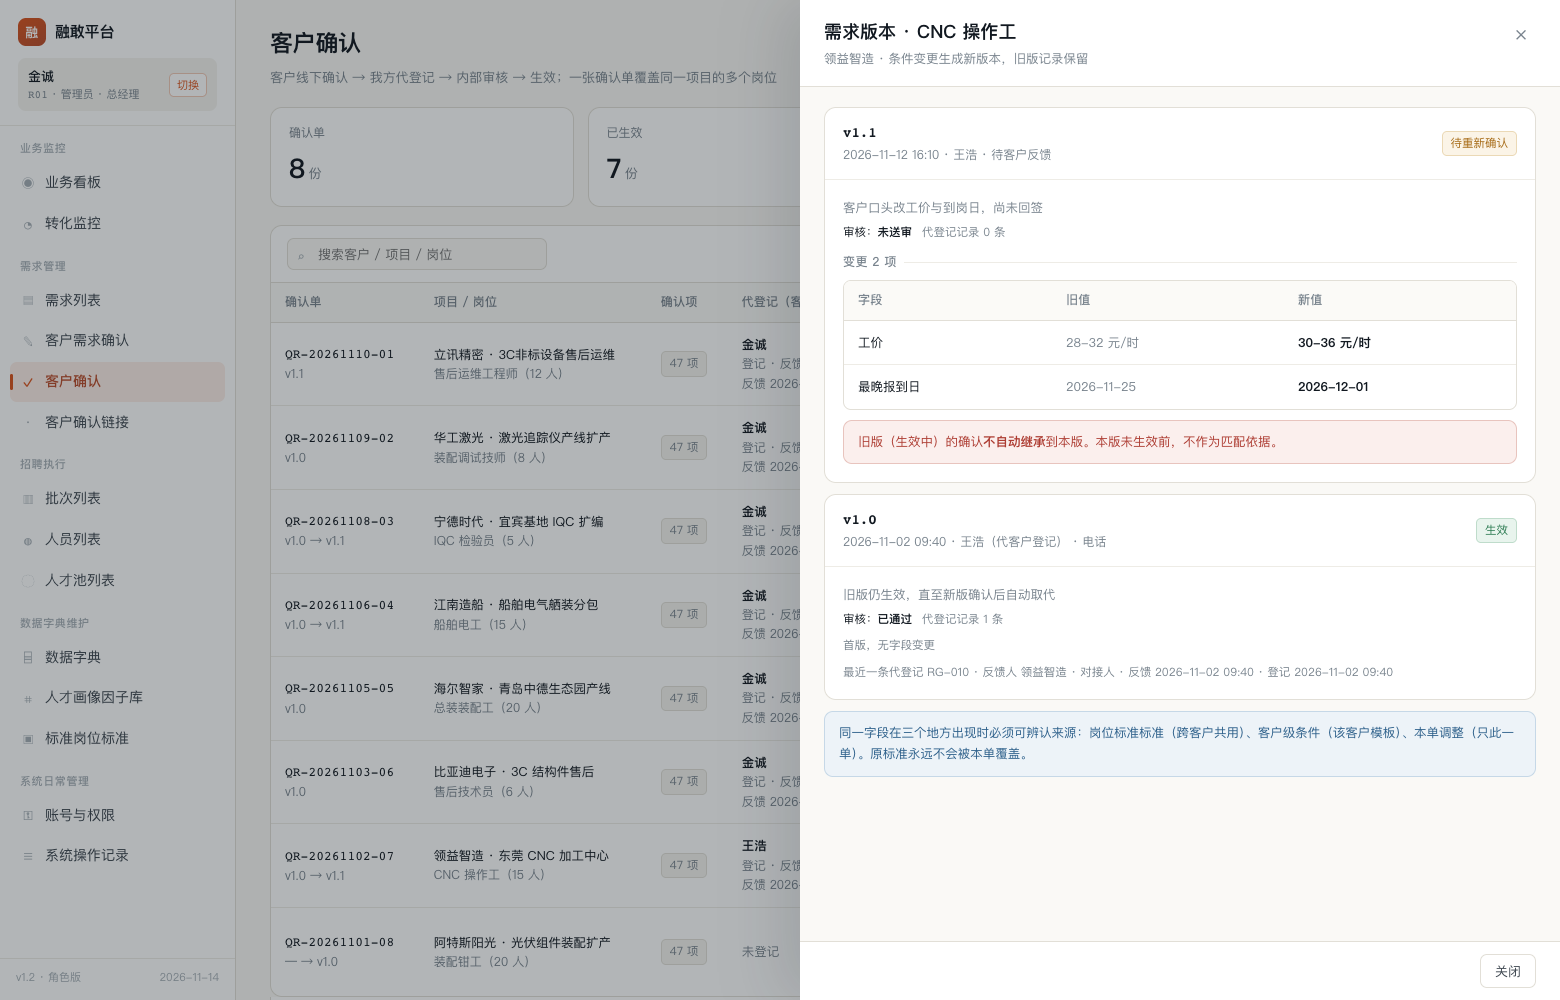
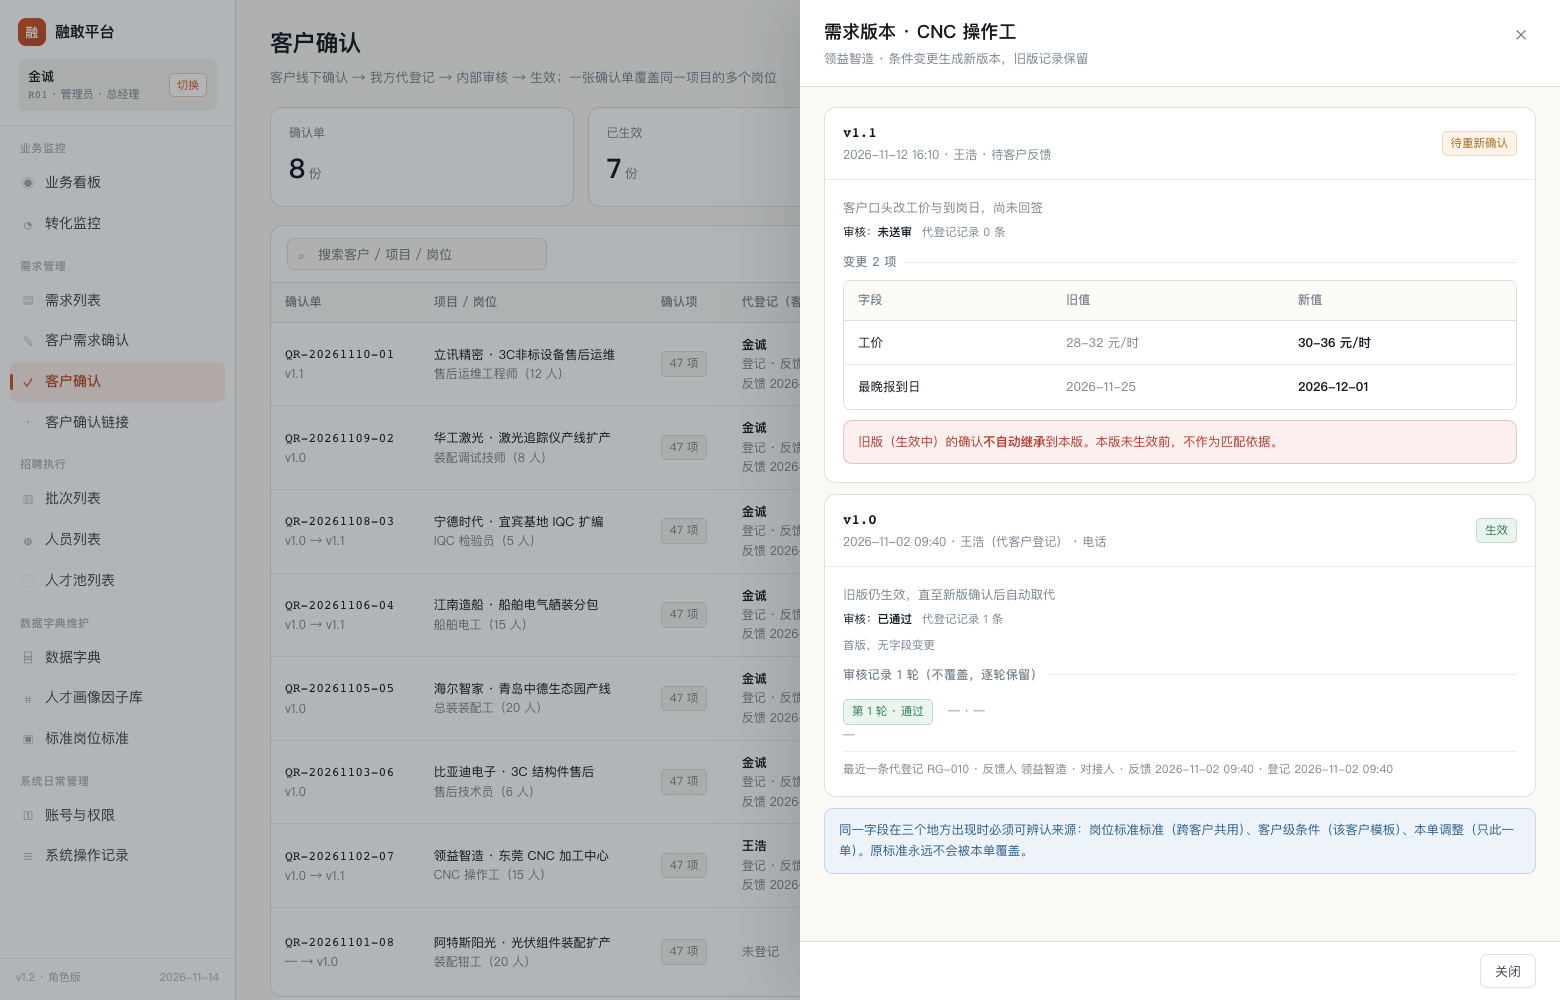
test(v1.2): 补两张截图（新建需求只读页条件、逐轮审核记录），自测文档同步 95 条

Changed region(s): [[0.5231, 0.651, 0.9538, 0.775], [0.5231, 0.806, 0.9846, 0.868]]

diff --git a/.shot-v12.js b/.shot-v12.js
@@ -136,6 +136,68 @@ const OUT = '/Users/yangxin/WorkBuddy/2026-11-10-18-54-53/月贝招聘平台-需
   await page.waitForTimeout(400);
   await shot('19-reg-resubmit');
 
+
+  // 新建需求 → 只读链接：条件来自向导，不是「无要求」
+  await page.evaluate(() => {
+    enter('R01');
+    ndEnter('SJ-DG-D3-L');
+    const st = ndState();
+    Object.assign(st, {client:'青岛思锐智能', project:'ALD 设备总装 2026Q4', people:'6', price:'38 元/时',
+      city:'青岛', deadline:'2026-12-20', term:'3 个月'});
+    ndPaint();
+    st.draft[25] = ['配盘接线','通电测试','报警排查'];
+    st.draft[26] = ['低压电工证'];
+    st.draft[19] = '两班倒';
+    st.draft[10] = '18-40';
+    ndCreate();
+    const id = DEMANDS[0].id;
+    window.__SHOTND__ = id;
+    const tok = (CLINKS.find(l=>l.demandId===id)||{}).tok;
+    openCustLinkDemo(tok);
+  });
+  await page.waitForTimeout(600);
+  await shot('20-newdemand-custlink');
+
+  // 两轮退回 → 版本历史逐轮保留意见
+  await page.evaluate(() => { exitCustLink(); enter('R01'); });
+  await page.waitForTimeout(200);
+  await page.evaluate(() => {
+    const id = window.__SHOTND__;
+    regDrawer(id);
+    const set = (k,v)=>{ const el=document.getElementById(k); if(el) el.value=v; };
+    set('rg_fbPerson','李主管（思锐·生产部）'); set('rg_fbChannel','微信');
+    set('rg_fbAt','2026-11-13 10:05');
+    set('rg_fbContent','「技能按清单来，电工证必须有；班制两班倒。」');
+    set('rg_fbAttach','微信截图 2 张（arch/2026-11-13-SR-01.png）');
+    set('rg_regBy','金诚'); set('rg_regAt','2026-11-13 10:30');
+    regSave(id,'v1.0');
+  });
+  await page.waitForTimeout(300);
+  await page.evaluate(() => auditDrawer(window.__SHOTND__));
+  await page.waitForTimeout(300);
+  await page.evaluate(() => { const n=document.getElementById('au_note');
+    if(n) n.value='第一轮退回：反馈未落到具体倒班周期，且缺客户原话截图'; auditAct(window.__SHOTND__,'back'); });
+  await page.waitForTimeout(300);
+  await page.evaluate(() => {
+    const id = window.__SHOTND__;
+    regDrawer(id);
+    const set = (k,v)=>{ const el=document.getElementById(k); if(el) el.value=v; };
+    set('rg_fbAt','2026-11-13 15:00');
+    set('rg_fbContent','「两班倒，15 天倒一次；电工证必须有，其他按清单。」');
+    set('rg_fbAttach','微信截图 3 张（arch/2026-11-13-SR-02.png）');
+    set('rg_regAt','2026-11-13 15:20');
+    regSave(id,'v1.0');
+  });
+  await page.waitForTimeout(300);
+  await page.evaluate(() => auditDrawer(window.__SHOTND__));
+  await page.waitForTimeout(250);
+  await page.evaluate(() => { const n=document.getElementById('au_note');
+    if(n) n.value='第二轮退回：变更值仍未写死到具体条款，补充后重新送审'; auditAct(window.__SHOTND__,'back'); });
+  await page.waitForTimeout(300);
+  await page.evaluate(() => openVers(window.__SHOTND__));
+  await page.waitForTimeout(500);
+  await shot('21-audit-history');
+
   console.log('ERRS', JSON.stringify(errs, null, 1));
   await browser.close();
 })();

diff --git a/自测-逐项结果-v1.2.md b/自测-逐项结果-v1.2.md
@@ -9,7 +9,7 @@
 | 产物 md5 · 角色版 | `e2469f8a02b0d311163fa1a419feeac6` |
 | 产物 md5 · 解释版 | `d2020c3f13a829b6486796f03d15a11c` |
 | 线上地址 | http://106.3.136.150:8095/ （容器 `yuebei-mvp-v12`） |
-| 截图 | `截图-v1.2/` 19 张 |
+| 截图 | `截图-v1.2/` 21 张（本轮新增 20-newdemand-custlink、21-audit-history） |
 
 ```bash
 cd 月贝招聘平台-需求梳理
